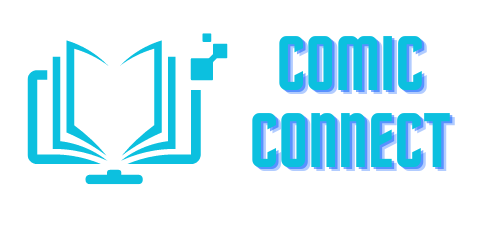
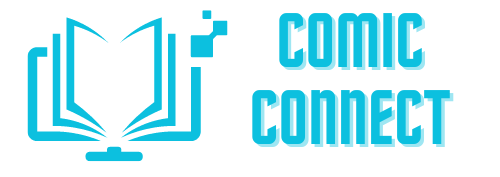
ロゴの編集

diff --git a/app/assets/stylesheets/shared/second-header.css b/app/assets/stylesheets/shared/second-header.css
@@ -7,4 +7,5 @@
 .second-comicconnect-icon {
   width: 10vw;
   margin: 2vh 0;
+  mix-blend-mode: multiply
 }

diff --git a/app/assets/stylesheets/shared/header.css b/app/assets/stylesheets/shared/header.css
@@ -16,6 +16,7 @@
 
 .comicconnect-icon {
   width: 10vw;
+  mix-blend-mode: multiply
 }
 
 .title {
